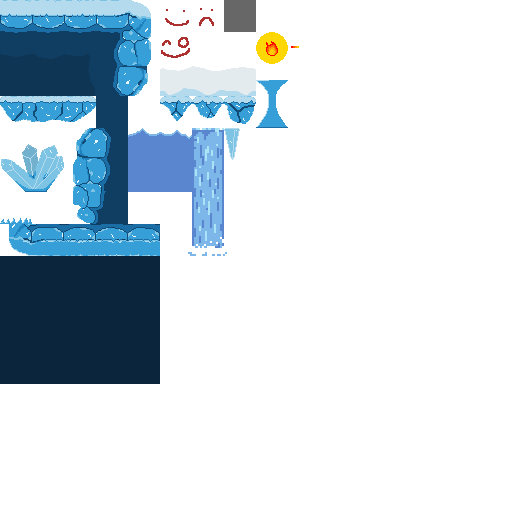
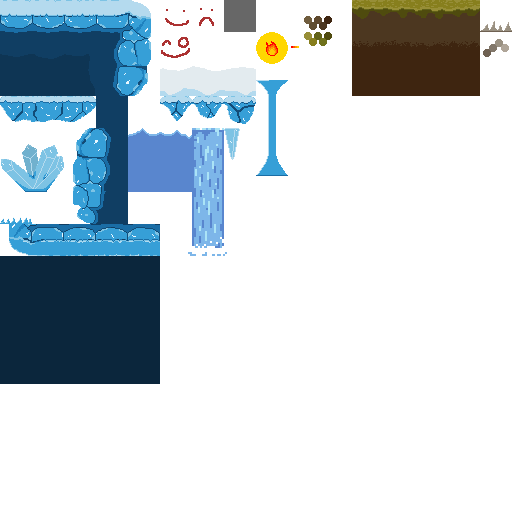
NOUVELLE MAP OUUUUUUUUUUUUUU

Changed region(s): [[0.6875, 0.0, 1.0, 0.1875], [0.5, 0.2188, 0.5625, 0.3438], [0.5938, 0.0312, 0.6562, 0.0938]]

diff --git a/glace_1.js b/glace_1.js
@@ -36,6 +36,8 @@ class glace_1 extends Phaser.Scene {
         this.load.image("lumieres", "assets/lumieres.png")
         this.load.image("stalactite","assets/stalactite.png")
         this.load.image("bloc_cassable","assets/bloc_cassable.png")
+        this.load.image("bigLumiere", "assets/bigLumiere.png")
+        this.load.image("piques2", "assets/piques2.png")
     }
 
     create() {
@@ -70,6 +72,12 @@ class glace_1 extends Phaser.Scene {
         this.nombreEnemy = 0;
         //enemyShoot
 
+        //playerSpawn
+        this.playerX = 4*32
+        this.playerY = 16*32
+
+        //playerSpawn
+
         const carteDuNiveau = this.add.tilemap("map_glace");
         const tileset = carteDuNiveau.addTilesetImage(
             "assets_glace",
@@ -93,6 +101,11 @@ class glace_1 extends Phaser.Scene {
         this.calque_piques = carteDuNiveau.getObjectLayer('piques');
         this.calque_piques.objects.forEach(calque_piques => {
             const POP = this.piques.create(calque_piques.x +16 , calque_piques.y -3, "piques").body.setAllowGravity(false).setImmovable(true);
+        });
+        this.piques2 = this.physics.add.group();
+        this.calque_piques2 = carteDuNiveau.getObjectLayer('piques2');
+        this.calque_piques2.objects.forEach(calque_piques2 => {
+            const POP = this.piques2.create(calque_piques2.x +16 , calque_piques2.y -3, "piques2").body.setAllowGravity(false).setImmovable(true);
         });
         this.lumieres = this.physics.add.group();
         this.calque_lumieres = carteDuNiveau.getObjectLayer('lumieres');
@@ -148,6 +161,7 @@ class glace_1 extends Phaser.Scene {
         this.calque_hitBoxR.objects.forEach(calque_hitBoxR => {
             const POP = this.hitBoxR.create(calque_hitBoxR.x + 16, calque_hitBoxR.y - 16, "SpriteHitBox").setSize(32, 64).body.setAllowGravity(false).setImmovable(true);
         });
+        
         this.enemyShoot = this.physics.add.group();
 
         this.calque_enemyShoot = carteDuNiveau.getObjectLayer('enemyShoot');    
@@ -155,6 +169,14 @@ class glace_1 extends Phaser.Scene {
             this.nombreEnemy += 1
             const POP = this.enemyShoot.create(calque_enemyShoot.x + 16, calque_enemyShoot.y - 16, "enemyShoot").body.setAllowGravity(false).setImmovable(true);
         });
+
+        this.checkPoint = this.physics.add.group();
+        this.calque_checkPoint = carteDuNiveau.getObjectLayer('checkPoint');
+        this.calque_checkPoint.objects.forEach(calque_checkPoint => {
+            const POP = this.checkPoint.create(calque_checkPoint.x + 16, calque_checkPoint.y - 16, "SpriteHitBox").setSize(32, 256).body.setAllowGravity(false).setImmovable(true);
+        });
+
+
         const neige = carteDuNiveau.createLayer(
             "neige",
             tileset
@@ -163,7 +185,7 @@ class glace_1 extends Phaser.Scene {
             "sols",
             tileset
         );
-        this.player = this.physics.add.sprite(66*32, 4*32, 'perso');
+        this.player = this.physics.add.sprite(this.playerX, this.playerY, 'perso');
         this.player.setCollideWorldBounds(true);
         this.player.setSize(32,48).setOffset(10,8)
 
@@ -171,20 +193,24 @@ class glace_1 extends Phaser.Scene {
         sols.setCollisionByExclusion(-1, true);
 
         this.CameraHitBox1 = this.physics.add.sprite(69.5*32, 96, "SpriteHitBox").setSize(32, 128)//.body.setAllowGravity(false)//.setImmovable(true)
-        this.CameraHitBox2 = this.physics.add.sprite(133.5*32, 19*32, "SpriteHitBox").setSize(160, 32)//.body.setAllowGravity(false)//.setImmovable(true)
+        this.CameraHitBox2 = this.physics.add.sprite(133.5*32, 19*32, "SpriteHitBox").setSize(250, 32)//.body.setAllowGravity(false)//.setImmovable(true)
         this.feuHitBox = this.physics.add.sprite(135*32,16*32, "SpriteHitBox").setSize(64,64)
+        this.lumiereHitbox = this.physics.add.sprite(0.75*32, 25*32, "bigLumiere").setScale(1.15)
         this.SpriteFireBall = this.physics.add.group();
         this.Bdg = this.physics.add.group();
         this.physics.add.collider(this.CameraHitBox1, sols);
         this.physics.add.collider(this.CameraHitBox2, sols);
+        this.physics.add.collider(this.lumiereHitbox, sols);
         this.physics.add.collider(this.feuHitBox, this.bloc_cassable);
         this.physics.add.collider(this.player, sols);
         this.physics.add.collider(this.player, neige);
         this.physics.add.collider(this.player, this.bloc_cassable);
         this.physics.add.collider(this.player, this.piques, this.piquesKill, null, this)
+        this.physics.add.collider(this.player, this.piques2, this.piquesKill, null, this)
         this.physics.add.overlap(this.player, this.eau_surface, this.waterKill, null, this)
         this.physics.add.overlap(this.player, this.CameraHitBox1, this.cameraChange1, null, this)
         this.physics.add.overlap(this.player, this.CameraHitBox2, this.cameraChange2, null, this)
+        this.physics.add.overlap(this.player, this.lumiereHitbox, this.cameraChange3, null, this)
         this.physics.add.collider(this.stalactite, sols, this.casseStala, null, this)
         this.physics.add.collider(this.stalactite2, sols, this.casseStala, null, this)
         this.physics.add.collider(this.player, this.stalactite, this.stalaKill, null, this)
@@ -204,7 +230,7 @@ class glace_1 extends Phaser.Scene {
 
 
 
-        this.physics.world.setBounds(0, 0, 140*32, 30*32);
+        this.physics.world.setBounds(0, 0, 140*32, 52*32);
         this.cameras.main.setBounds(this.cameraX1, this.cameraY1, this.cameraX2, this.cameraY2);
         this.cameras.main.zoom = 1.2;
         this.cameras.main.startFollow(this.player);
@@ -332,9 +358,11 @@ class glace_1 extends Phaser.Scene {
         if(this.clavier.I.isDown && this.physics.overlap(this.player, this.feuHitBox) && this.appuyer == false) {
             this.canMageFeu = true
             this.feu.getChildren()[0].setVisible(false)
-            setTimeout(() => {
-                this.bloc_cassable.getChildren()[0].destroy()
-            }, 200);
+            this.time.addEvent({
+                delay: 200, callback: () => {
+                    this.bloc_cassable.getChildren()[0].destroy()
+                },
+            })
         }
 
                 this.stalactite.getChildren().forEach(stala => {
@@ -399,6 +427,11 @@ class glace_1 extends Phaser.Scene {
                 }
             });
             //enemyShoot
+            //checkPoint
+            this.checkPoint.getChildren().forEach(check => {
+                this.physics.overlap(this.player, check, this.playerRespawn, null, this)
+            });
+            //checkPoint
 
 
 
@@ -409,7 +442,9 @@ class glace_1 extends Phaser.Scene {
         this.time.addEvent({
             delay: 1500, callback: () => {
                 player.setVelocityY(200)
-                this.scene.restart();
+                player.x = this.playerX
+                player.y = this.playerY
+                player.setDepth(1)
             },
         })
 
@@ -418,18 +453,24 @@ class glace_1 extends Phaser.Scene {
     piquesKill(player, spikes){
         this.cameras.main.shake(200, 0.02)
         this.cameras.main.flash()
-        setTimeout(() => {
-            this.scene.restart();
-        }, 200);
+        this.time.addEvent({
+            delay: 200, callback: () => {
+                player.x = this.playerX
+                player.y = this.playerY
+            },
+        })
 
     }
 
     stalaKill(player, stala){
         this.cameras.main.shake(200, 0.02)
         this.cameras.main.flash()
-        setTimeout(() => {
-            this.scene.restart();
-        }, 200);
+        this.time.addEvent({
+            delay: 200, callback: () => {
+                player.x = this.playerX
+                player.y = this.playerY
+            },
+        })
 
     }
 
@@ -462,6 +503,20 @@ class glace_1 extends Phaser.Scene {
             this.cameraY1 = 20*32
             this.cameraY2 = 10*32
     }
+
+    cameraChange3(player,camerahitbox){
+        this.cameras.main.flash()
+        this.time.addEvent({
+            delay: 200, callback: () => {
+                this.cameraX1 = 0
+                this.cameraX2 = 140*32
+                this.cameraY1 = 32*32
+                this.cameraY2 = 20*32
+                player.x = 3*32
+                player.y = 47*32
+            },
+        })
+}
 
     casseStala(stala, sols){
         stala.destroy()
@@ -503,6 +558,11 @@ class glace_1 extends Phaser.Scene {
     }
     breakBDG(collider, bdg){
         bdg.destroy()
+    }
+
+    playerRespawn(player, checkPoint){
+        this.playerX = checkPoint.x
+        this.playerY = checkPoint.y
     }
 
 
